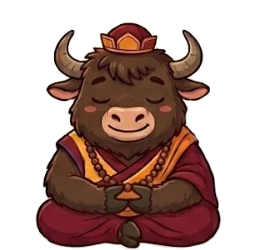
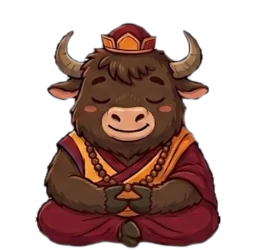
Yak Tashi: an uneven blink rhythm, no white fringe on dark
The pause between blinks was a flat 3–6 s and read as a metronome. It is
now 1.5–9 s, skewed towards the short end, and one blink in four is a
double one. The frames are recut from the sheet with the one-pixel white
anti-aliasing ring (left by the hard background cut) recoloured from the
inside and softened, so there is no halo on the dark theme. The smoke test
accepts a blink caught mid-check.

diff --git a/site/src/tashi.js b/site/src/tashi.js
@@ -7,7 +7,7 @@
 // and the course map `ctx.tashi.greet()`; app.js calls `setScreen(route)` on every render.
 
 import { h } from './ui.js';
-import { createPicker, shouldSpeak, blinkDelay, pools, tapCategory, BUBBLE_MS, IDLE_MS, BLINK_MS, SCREENS } from './engine/tashi.js';
+import { createPicker, shouldSpeak, blinkDelay, doubleBlink, pools, tapCategory, BUBBLE_MS, IDLE_MS, BLINK_MS, DOUBLE_BLINK_GAP_MS, SCREENS } from './engine/tashi.js';
 
 const FRAMES = ['smile', 'blink', 'talk', 'meditate'];
 
@@ -50,16 +50,22 @@ export function createTashi(ctx) {
     else setFrame('smile', !wasMeditating);
   }
 
-  // ---- blinking ----
+  // ---- blinking: uneven pauses, now and then a double blink ----
+  function blink(again) {
+    if (!shown || state !== 'idle' || document.hidden) return;
+    setFrame('blink', true);
+    clearTimeout(blinkBack);
+    blinkBack = setTimeout(() => {
+      if (state !== 'idle') return;
+      setFrame('smile', true);
+      if (again) blinkBack = setTimeout(() => blink(false), DOUBLE_BLINK_GAP_MS);
+    }, BLINK_MS);
+  }
   function scheduleBlink() {
     clearTimeout(blinkTimer);
     if (reduced.matches) return;
     blinkTimer = setTimeout(() => {
-      if (shown && state === 'idle' && !document.hidden) {
-        setFrame('blink', true);
-        clearTimeout(blinkBack);
-        blinkBack = setTimeout(() => { if (state === 'idle') setFrame('smile', true); }, BLINK_MS);
-      }
+      blink(doubleBlink());
       scheduleBlink();
     }, blinkDelay());
   }

diff --git a/site/src/engine/tashi.js b/site/src/engine/tashi.js
@@ -12,8 +12,10 @@ export const PRAISE_CHANCE = 1 / 3;
 export const BUBBLE_MS = 3000;    // a phrase stays this long
 export const IDLE_MS = 30000;     // no input for this long: he sits down to meditate
 export const BLINK_MS = 120;
-export const BLINK_MIN_MS = 3000; // a blink every 3–6 seconds
-export const BLINK_MAX_MS = 6000;
+export const BLINK_MIN_MS = 1500; // the pause between blinks: 1.5–9 s, short ones more often than long ones
+export const BLINK_MAX_MS = 9000;
+export const DOUBLE_BLINK_CHANCE = 0.25; // one blink in four is a double one
+export const DOUBLE_BLINK_GAP_MS = 180;
 export const SCREENS = ['course', 'play', 'read']; // the screens he is shown on
 
 /** Fisher–Yates on a copy. */
@@ -60,9 +62,15 @@ export function shouldSpeak(category, rng = Math.random) {
   return category !== 'correct' || rng() < PRAISE_CHANCE;
 }
 
-/** Milliseconds until the next blink. */
+/** Milliseconds until the next blink: skewed towards the short end so the rhythm never reads as a metronome. */
 export function blinkDelay(rng = Math.random) {
-  return BLINK_MIN_MS + Math.floor(rng() * (BLINK_MAX_MS - BLINK_MIN_MS));
+  const r = rng();
+  return BLINK_MIN_MS + Math.floor(r * r * (BLINK_MAX_MS - BLINK_MIN_MS));
+}
+
+/** Whether this blink is followed by a second one right away. */
+export function doubleBlink(rng = Math.random) {
+  return rng() < DOUBLE_BLINK_CHANCE;
 }
 
 /** What he says when tapped while quiet: a greeting or a bit of praise. */

diff --git a/site/src/engine/tests/tashi.test.js b/site/src/engine/tests/tashi.test.js
@@ -1,6 +1,6 @@
 import { test } from 'node:test';
 import assert from 'node:assert/strict';
-import { CATEGORIES, PRAISE_CHANCE, BLINK_MIN_MS, BLINK_MAX_MS, shuffle, pools, createPicker, shouldSpeak, blinkDelay, tapCategory } from '../tashi.js';
+import { CATEGORIES, PRAISE_CHANCE, BLINK_MIN_MS, BLINK_MAX_MS, shuffle, pools, createPicker, shouldSpeak, blinkDelay, doubleBlink, tapCategory } from '../tashi.js';
 import { makeT } from '../../i18n/index.js';
 import { LANGS } from '../config.js';
 
@@ -57,9 +57,12 @@ test('praise is rationed, everything else is always said', () => {
   for (const c of CATEGORIES.filter((x) => x !== 'correct')) assert.equal(shouldSpeak(c, () => 0.99), true, c);
 });
 
-test('blink delay stays in its window; a tap gives a greeting or praise', () => {
+test('blink delay stays in its window and leans short; a tap gives a greeting or praise', () => {
   assert.equal(blinkDelay(() => 0), BLINK_MIN_MS);
   assert.ok(blinkDelay(() => 0.999) < BLINK_MAX_MS);
+  assert.ok(blinkDelay(() => 0.5) < (BLINK_MIN_MS + BLINK_MAX_MS) / 2, 'the median pause is shorter than the middle of the window');
+  assert.equal(doubleBlink(() => 0.1), true);
+  assert.equal(doubleBlink(() => 0.9), false);
   assert.equal(tapCategory(() => 0.2), 'hello');
   assert.equal(tapCategory(() => 0.8), 'correct');
 });
